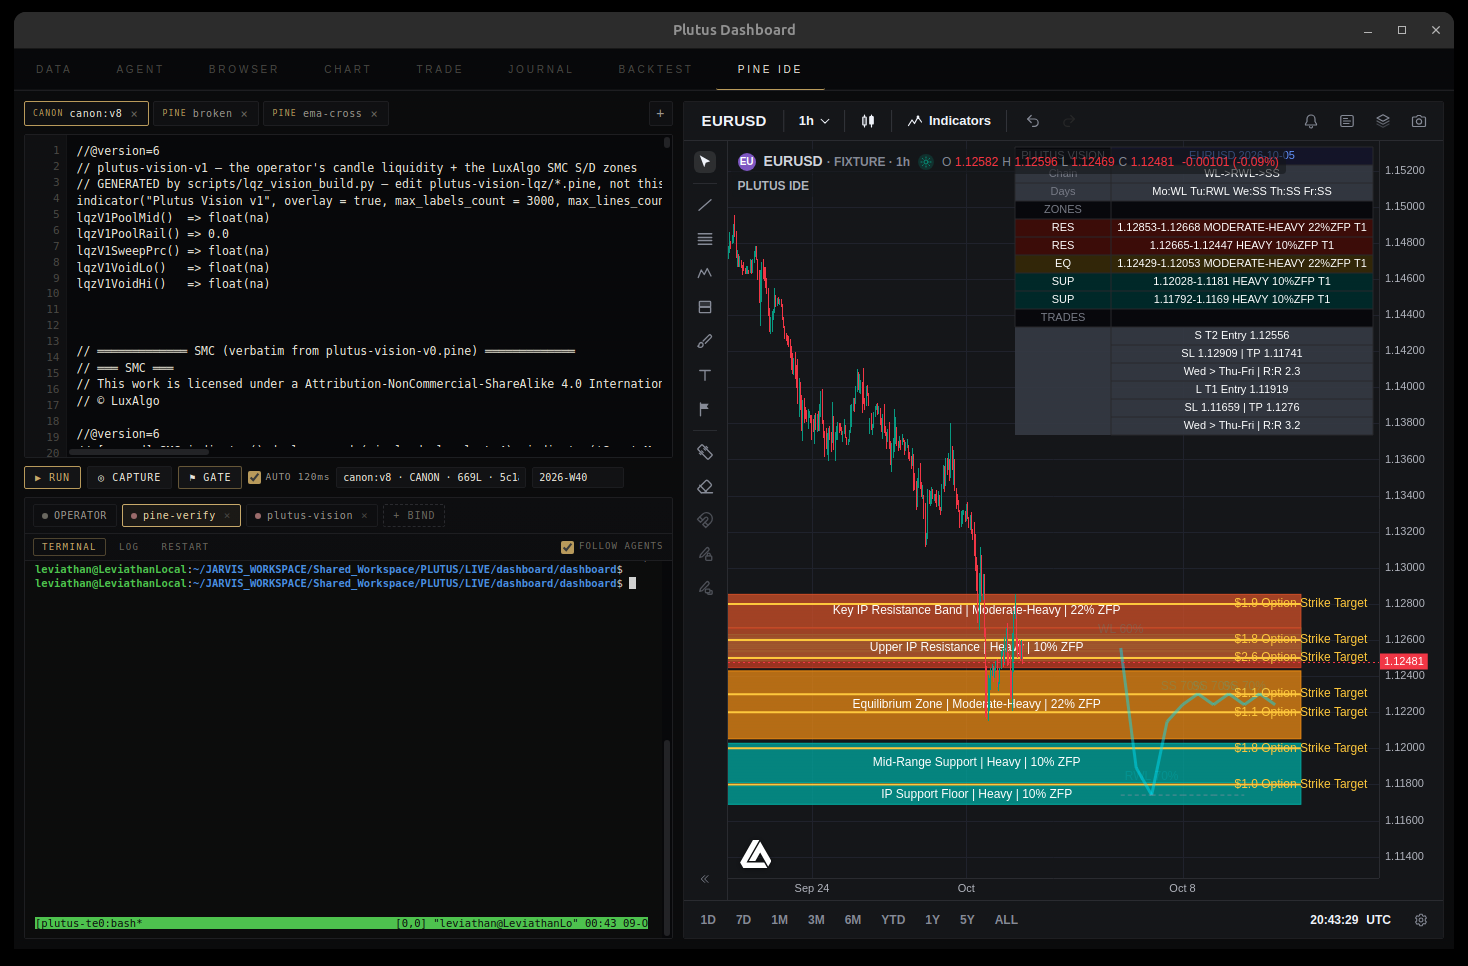
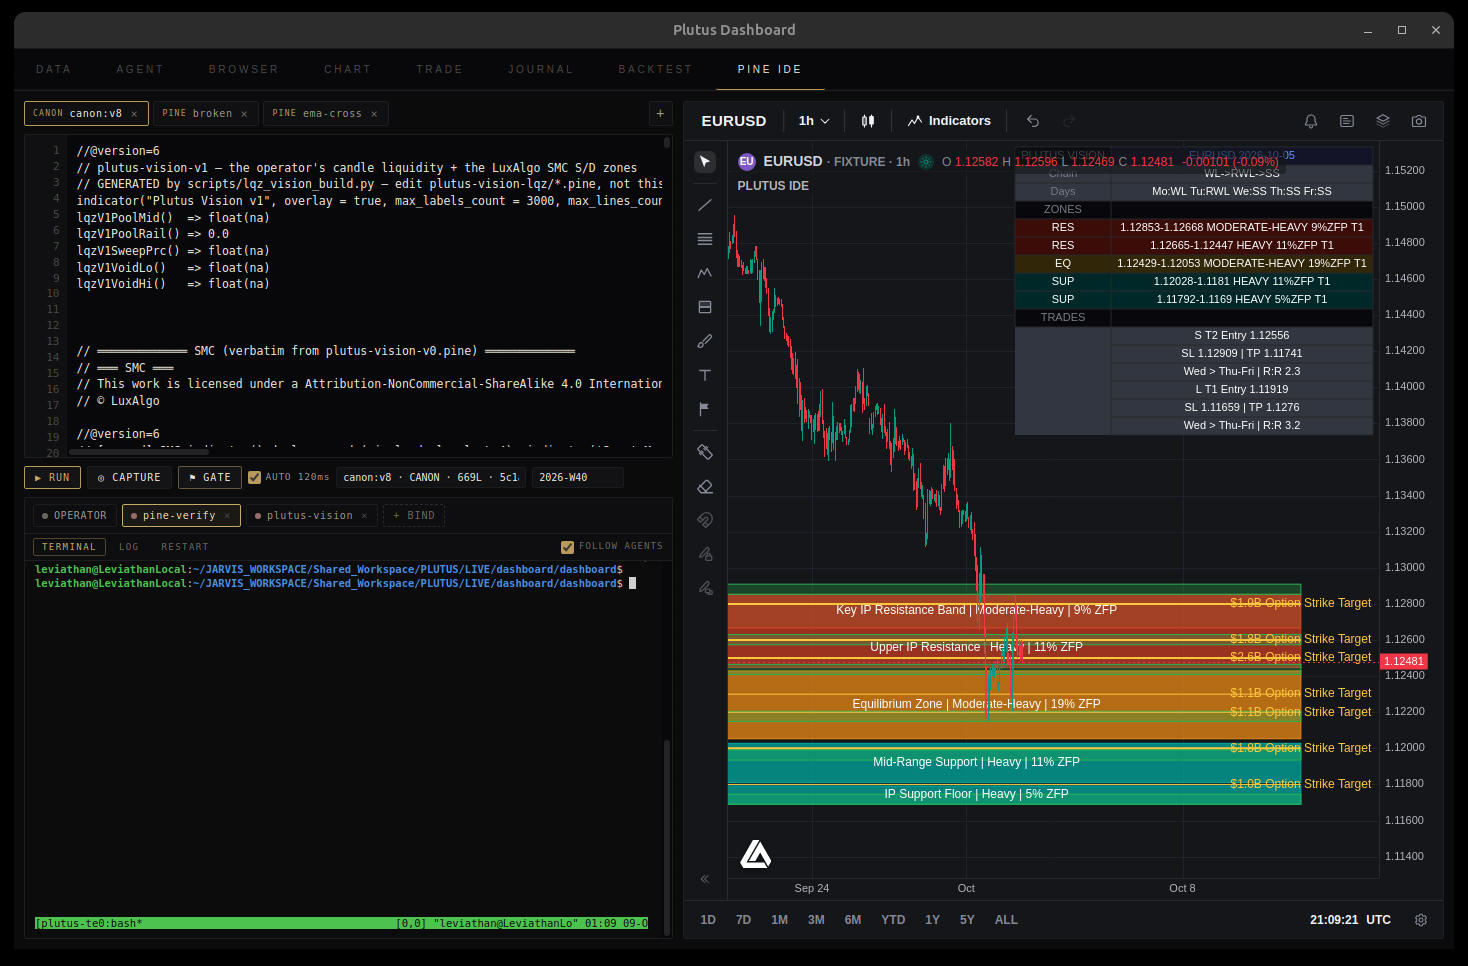
fix(e1): chart ZFP=spec 10.8 calcZFP; option labels carry B + per-vol width; LSZ 6 spread drawn on top; E2 path opt-in (no foreign layer) (v2 84a67c1ee71568195f86635918a1529ec60b2843d1cb9391e2145be82031940a, battery 11 suites 0 fail)

Changed region(s): [[0.4905, 0.5901, 0.9503, 0.8385], [0.7663, 0.2174, 0.9196, 0.3106], [0.889, 0.9317, 0.9196, 0.9627]]

diff --git a/scripts/lqz_vision_v2_build.py b/scripts/lqz_vision_v2_build.py
@@ -199,7 +199,28 @@ def build_payload() -> tuple[str, str]:
     add("e1_injected_top", "float", [_f(z.get("top")) for z in zones])
     add("e1_injected_bottom", "float", [_f(z.get("bottom")) for z in zones])
     add("e1_injected_confluence", "int", [int(_f(z.get("confluence"))) for z in zones])
-    add("e1_injected_zfp", "int", [int(_f(z.get("zfp"))) for z in zones])
+
+    # THE CHART ZFP — SPEC §10.8 calcZFP, the v8's own formula (trident_v8.pine:334-336):
+    #     calcZFP = round((tp - bt) / refRange * 100)     refRange: DXY 1.60, EU/GU 0.0200, AU 0.0150
+    # The label's ZFP must be CONSISTENT WITH THE ZONE WIDTH the chart draws — a reviewer computes
+    # it from the labelled range and rejects a mismatch. The earlier chart carried the payload's
+    # Appendix-B qualitative probability (base+modifiers), which is a DIFFERENT quantity and read
+    # as "not produced by the reference formula". §10.8 is the Pine mapping's ZFP; use it here.
+    _pair_early = "EUR/USD"
+    for _f0 in _files:
+        try:
+            _pair_early = str(json.loads(_f0.read_text()).get("pair") or "EUR/USD")
+            break
+        except Exception:
+            pass
+    _REF = {"DXY": 1.60, "EUR/USD": 0.0200, "GBP/USD": 0.0200, "AUD/USD": 0.0150}
+    _ref_range = _REF.get(_pair_early, 0.0200)
+
+    def _calc_zfp(top, bottom) -> int:
+        w = float(top) - float(bottom)
+        return int(round(w / _ref_range * 100.0))
+
+    add("e1_injected_zfp", "int", [_calc_zfp(z.get("top"), z.get("bottom")) for z in zones])
     # zCat — the v8 renderer's positional vocabulary (RES|MID|SUP). VALIDATED, never defaulted:
     # a missing zCat silently became "SUP" (a teal wrong-colour) — refuse instead (audit 2026-10-05).
     for z in zones:
@@ -288,7 +309,7 @@ def build_payload() -> tuple[str, str]:
     # declarations in the emitted Pine. `add()` initializes on call, so the row list must be
     # built first and emitted in ONE call.
     _tbl_rows = [(f'{_f(z.get("top"))}-{_f(z.get("bottom"))} '
-                  f'{z.get("degree_v8", "")} {int(_f(z.get("zfp")))}%ZFP {z.get("zTir", "T2")}')
+                  f'{z.get("degree_v8", "")} {_calc_zfp(z.get("top"), z.get("bottom"))}%ZFP {z.get("zTir", "T2")}')
                  for z in zones]
     add("e1_injected_tbl_row", "string", [f'"{_q(r)}"' for r in _tbl_rows])
     # THE FULL CHAIN (§6.6 Step 3: `Shape A → Shape B → Shape C`). The earlier form kept only
@@ -313,14 +334,18 @@ def build_payload() -> tuple[str, str]:
         _d0 = json.loads(_files[0].read_text()) if _files else {}
         _spot = float(_d0.get("spot") or 0) or None
         _raw = _d0.get("lsz") or []
-        # sort by the SWING (the range's lower edge) proximity to spot — the v8's LSZ sit at
-        # the prior swing lows/highs, thin bands near the price
-        _raw = sorted(_raw, key=lambda x: abs(float(x["range"][0]) - (_spot or 0)))[:6]
-        for x in _raw:
-            _lo = float(x["range"][0])
-            # THE V8 WIDTH IS 0.05 DXY (~5 pips); on a pair that is 0.05% of price. A thin band:
-            _pw = abs(_lo) * 0.0005
-            _lsz.append((_lo, _lo + _pw, str(x.get("type", "")).upper()[:6].replace("-SIDE", "")))
+        # THE v8 RENDERS 6 SPREAD LSZ at the prior swing levels (trident_v8.pine:229-231, EU
+        # 1.1480-1.1715). The earlier build took the 6 NEAREST the spot — they clustered inside
+        # one IP zone and the reviewers read the layer as MISSING (only thin green striations, no
+        # 6 boxes). The swings span the lookback; take 6 DISTINCT, SPREAD levels so the layer
+        # reads as the v8's does.
+        _lv = sorted({round(float(x["range"][0]), 5) for x in _raw})
+        if len(_lv) > 6:
+            _idx = [round(i * (len(_lv) - 1) / 5) for i in range(6)]
+            _lv = [_lv[i] for i in _idx]
+        for _lo in _lv:
+            _pw = abs(_lo) * 0.0005           # the v8's thin band (~5 pips on a pair)
+            _lsz.append((_lo, _lo + _pw, "STANDARD"))
     except Exception:
         _lsz = []
     add("e1_injected_lsz_top", "float", [_f(t) for (_b, t, _p) in _lsz])
